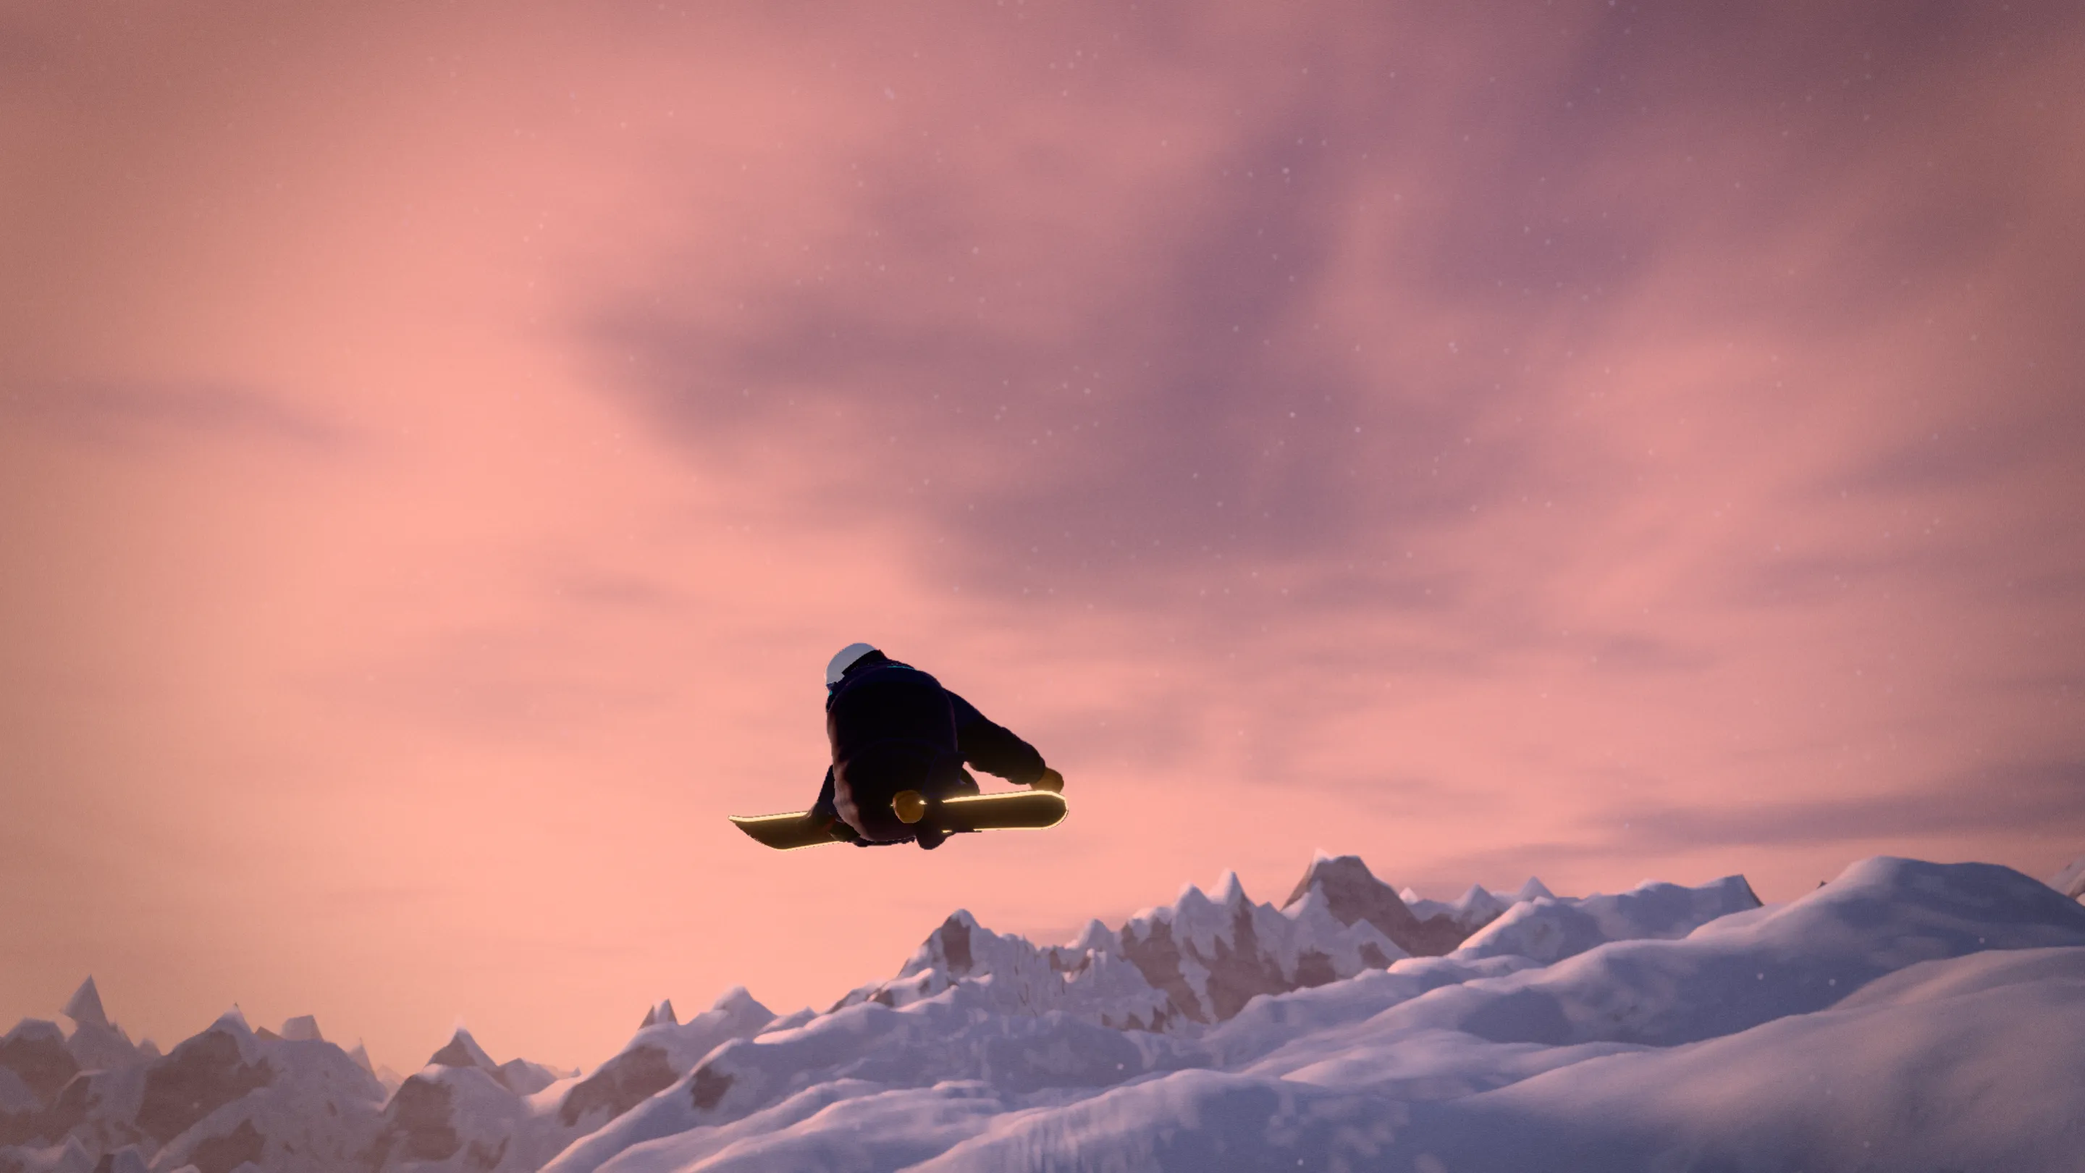
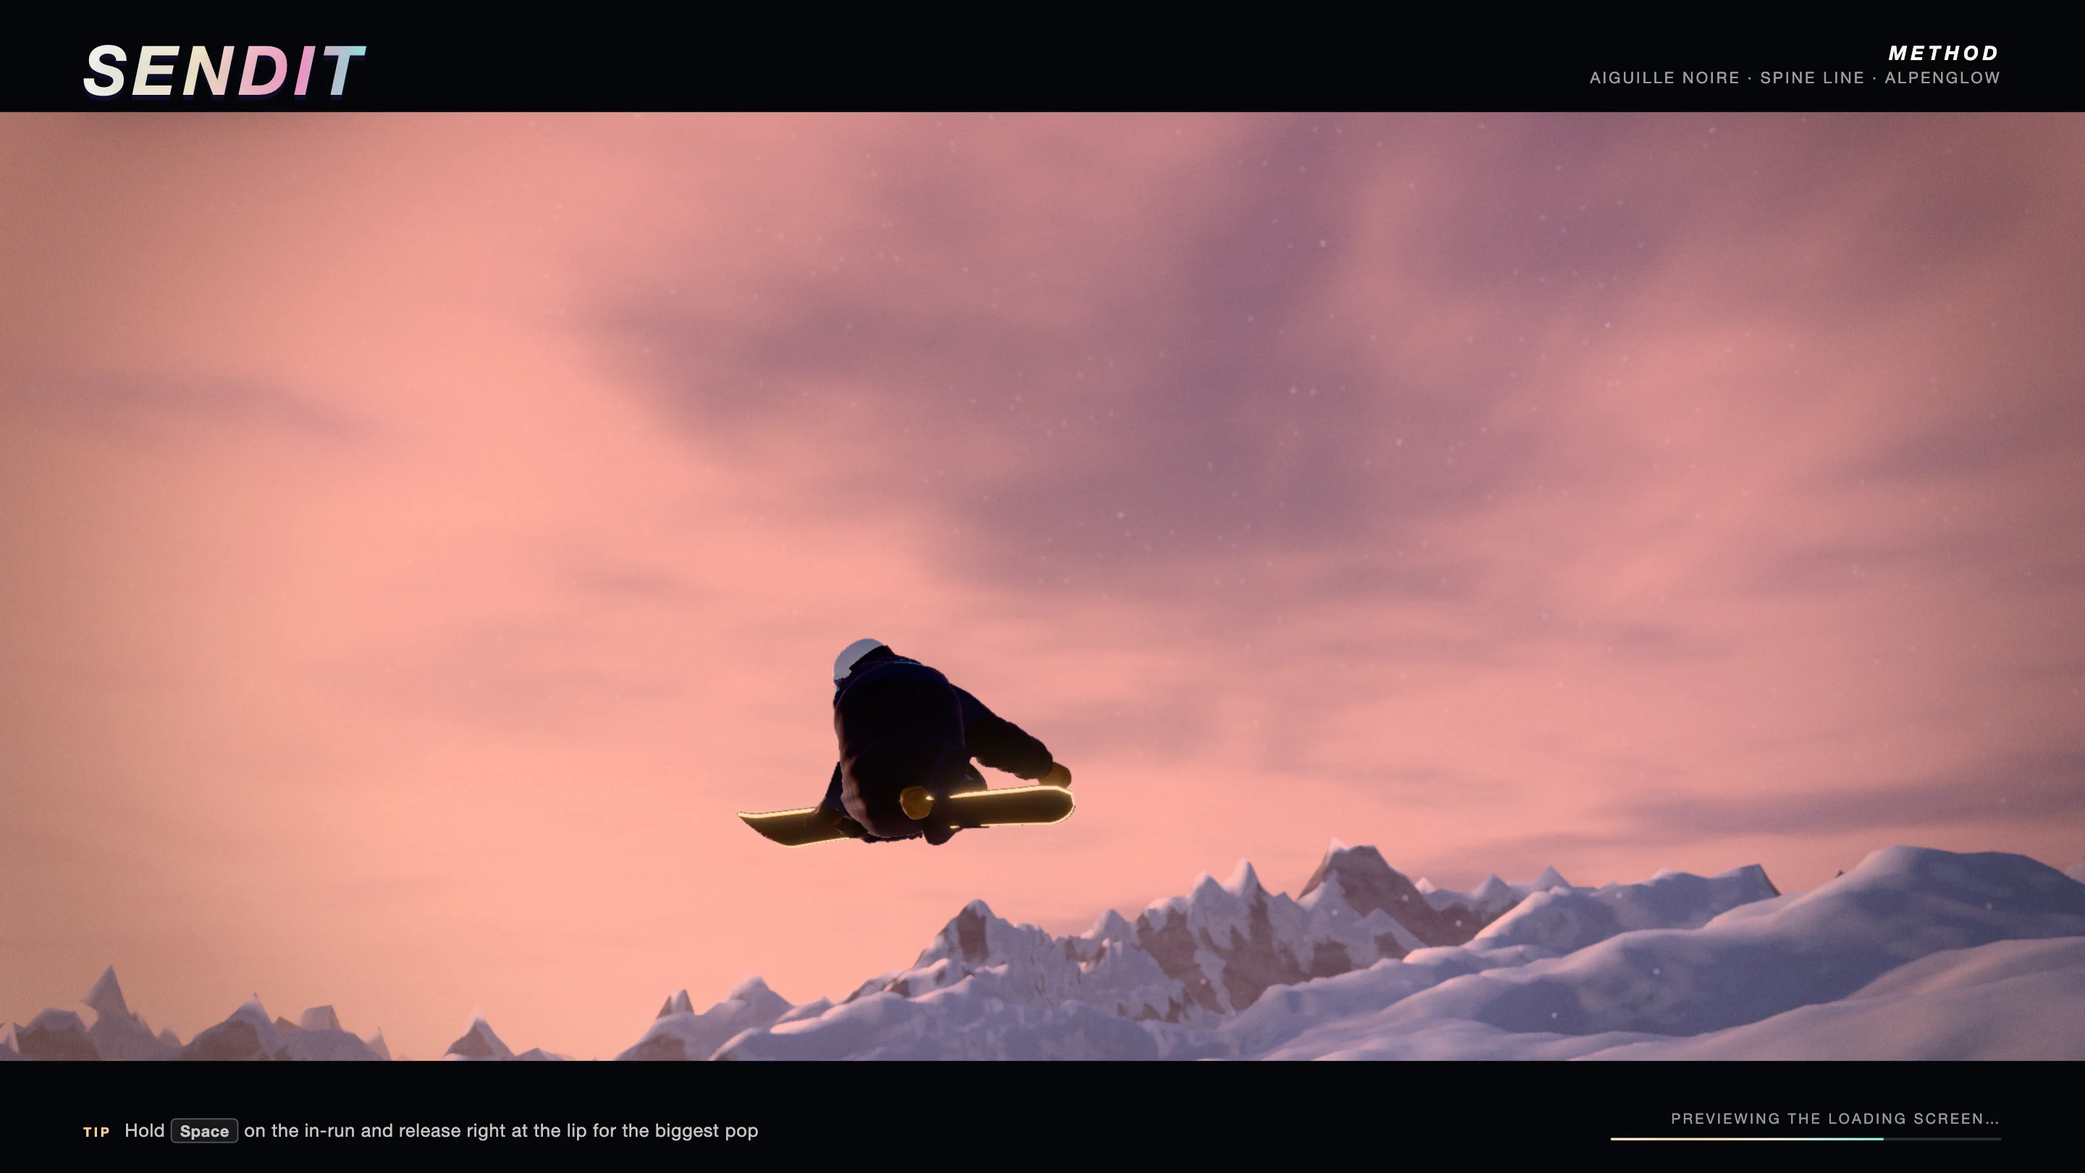
Loading: 12 stills at higher quality (2880x1620 WebP, 170-260 KB), manifest written by loadingstills.mjs, reduced motion stops the drift; docs round 2 (diagnosis, changes, AAA research, preview)

diff --git a/web/index.html b/web/index.html
@@ -13,7 +13,7 @@
     // A lobby → mountain load (localStorage sendit.loadhint, src/loading/hint.js) prefers a still in that
     // mountain's light. ?loadstill=<name> pins one, ?nostill skips it (the painted CSS screen only).
     (function () {
-      var S = /*STILLS*/[{"f":"golden-method.webp","seed":7101,"tod":"golden","mtn":"spires","gear":"snowboard"},{"f":"golden-backflip.webp","seed":7101,"tod":"golden","mtn":"spires","gear":"ski"},{"f":"bluebird-japan.webp","seed":7412,"tod":"bluebird","mtn":"ranges","gear":"ski"},{"f":"bluebird-cork.webp","seed":7533,"tod":"bluebird","mtn":"spires","gear":"snowboard"},{"f":"alpenglow-method.webp","seed":7377,"tod":"alpenglow","mtn":"spires","gear":"snowboard"},{"f":"dawn-japan.webp","seed":7690,"tod":"dawn","mtn":"inversion","gear":"ski"},{"f":"storm-japan.webp","seed":7801,"tod":"storm","mtn":"ranges","gear":"ski"},{"f":"aurora-backflip.webp","seed":7955,"tod":"aurora","mtn":"spires","gear":"ski"}]/*END*/;
+      var S = /*STILLS*/[{"f":"golden-method.webp","seed":7101,"tod":"golden","mtn":"spires","gear":"snowboard"},{"f":"golden-backflip.webp","seed":7101,"tod":"golden","mtn":"spires","gear":"ski"},{"f":"bluebird-japan.webp","seed":7412,"tod":"bluebird","mtn":"ranges","gear":"ski"},{"f":"bluebird-cork.webp","seed":7533,"tod":"bluebird","mtn":"spires","gear":"snowboard"},{"f":"alpenglow-method.webp","seed":7377,"tod":"alpenglow","mtn":"spires","gear":"snowboard"},{"f":"dawn-japan.webp","seed":7690,"tod":"dawn","mtn":"inversion","gear":"ski"},{"f":"storm-japan.webp","seed":7801,"tod":"storm","mtn":"ranges","gear":"ski"},{"f":"aurora-backflip.webp","seed":7955,"tod":"aurora","mtn":"spires","gear":"ski"},{"f":"aurora-method.webp","seed":7955,"tod":"aurora","mtn":"spires","gear":"snowboard"},{"f":"dawn-method.webp","seed":7690,"tod":"dawn","mtn":"inversion","gear":"snowboard"},{"f":"bluebird-method.webp","seed":7412,"tod":"bluebird","mtn":"ranges","gear":"snowboard"},{"f":"alpenglow-backflip.webp","seed":7377,"tod":"alpenglow","mtn":"spires","gear":"ski"}]/*END*/;
       var LOOK = { 'valcrest-gully': 'golden bluebird', 'lake-tahoe': 'bluebird golden', blackspruce: 'bluebird storm golden', ravenspire: 'golden alpenglow storm',
         'voltage-park': 'aurora bluebird', dragonback: 'bluebird golden dawn', 'kitsune-peak': 'alpenglow dawn', fjordline: 'golden dawn' };
       var q = location.search, pool = S, s = null, h = null, last = null;
@@ -125,7 +125,7 @@
       #loading .ld-ui::after { bottom: 0; background: linear-gradient(transparent, rgba(5,6,10,.7)); }
       #loading .ld-brand, #loading .ld-foot { z-index: 1; } #loading .ld-brand { top: 18px; } #loading .ld-foot { bottom: 22px; } }
     @media (max-width: 640px) { #loading .ld-foot { flex-direction: column; align-items: stretch; gap: 12px; } #loading .ld-progress { width: 100%; } #loading .ld-msg { text-align: left; } #loading .ld-cap { display: none; } }
-    @media (prefers-reduced-motion: reduce) { #loading .ld-flakes, #loading .bar::after { animation: none; } }
+    @media (prefers-reduced-motion: reduce) { #loading .ld-flakes, #loading .bar::after, #loading .ld-still { animation: none; } }
   </style>
 </head>
 <body>

diff --git a/web/src/gfx/prewarm.js b/web/src/gfx/prewarm.js
@@ -169,7 +169,7 @@ async function warmShadowVariants(renderer, scene, post, camera) {
   scene.add(group);
   await compileForTarget(renderer, scene, camera, post);   // the stand-ins' main-pass programs, in parallel
   const kids = [...group.children];
-  const PER = 2;   // one dummy + clone pair per frame (the depth programs still link synchronously)
+  const PER = 4;   // two dummy + clone pairs per frame (the depth programs still link synchronously)
   for (let i = 0; i < kids.length; i += PER) {
     for (let k = 0; k < kids.length; k++) kids[k].visible = k >= i && k < i + PER;
     post.composer.render(1 / 60);

diff --git a/docs/loading-screen.md b/docs/loading-screen.md
@@ -7,7 +7,115 @@ resolution in its own worker, and dissolves into the lobby when loading finishes
 
 Code: `web/src/loading/` · markup + inline CSS: `web/index.html` (`#loading`) · hooks: `ui.loading()` /
 `ui.doneLoading()` in `web/src/ui.js` · preview: `web/loading.html` · captures: `web/scripts/loadingshot.mjs`
-· timing: `web/scripts/loadtime.mjs`.
+· timing: `web/scripts/loadtime.mjs` · stills: `web/scripts/loadingstills.mjs` → `assets/loading/`.
+
+## Round 2 (overnight 17→18 Oct 2026): a real picture from the first frame, live on every map load
+
+### What the user actually saw (diagnosed on the MacBook Air M1, Chrome / ANGLE Metal, 1440×900 @2×)
+
+Measured with `scripts/loadtime.mjs`-style runs (scratch script, boot → lobby → pick Ravenspire) on the old
+code (commit `f7dcf86`, served side by side on another port), with 2–3 other sessions loading the machine:
+
+| | old |
+|---|---|
+| first paint | the CSS backdrop (gradient + SVG ridges + CSS dots): the "basic 2D mountain" |
+| first live frame, boot | 5.5–8.5 s after open (2.8–6.5 s on quieter runs); the 2D screen until then |
+| live scene resolution | the scaler collapsed to 0.5–0.64 → **919×574 to 1183×739 px on a 2880×1800 screen** (blurry) |
+| live scene fps during the boot | 9–14 fps, freezes of **5–8.5 s** |
+| lobby → mountain | a full page reload (`location.search`), so the same boot again: 2D screen for 1–6 s, then a random rider on a random made-up place (captions like "Dragonback · Spine 3" while loading Ravenspire), ~1050 px wide |
+
+Why: (1) the live scene needs ~2 s of worker start-up (modules, terrain, shader compile, the rider's glTF)
+and the worker's module requests queued behind the game's hundreds of dev-server requests; (2) the scaler
+counted GPU-thread stalls (the game linking shaders) as "too slow" and halved the resolution; (3) the game's
+own warm-up compiled programs synchronously on Chrome's single GPU thread (which the worker shares), and
+its shadow-variant warm-up drew a bare clone of the terrain material in the main pass — compiling a whole
+new terrain program synchronously (a 2 s+ freeze at the end of *every* load, old code included); (4) the
+1024² sun-mask bake was one 1–3 s GPU pass; (5) the worker reveal waited on a main-thread CSS class, and
+the main thread receives worker messages late (multi-second long tasks).
+
+### What changed
+
+1. **First paint is a picture from the game's own engine.** 12 hero stills (`assets/loading/*.webp`,
+   2880×1620, 170–260 KB each, 2.8 MB in all) are rendered by the loading scene itself: `scripts/loadingstills.mjs`
+   freezes a seeded variant mid-trick (`?loadq=still` = full size, real depth of field, no scaler,
+   `?loadfreeze=<fraction of the air>`) with the new *hero three-quarter* camera, and encodes WebP in the
+   browser. A tiny inline script in `index.html`'s `<head>` picks one (never the same twice in a row; on a
+   lobby → mountain load one in that mountain's light), preloads it with `fetchpriority=high` and shows it
+   the moment it decodes (~50–200 ms after open), with a slow Ken Burns drift (random direction per load)
+   and CSS bokeh snow above it. The old CSS gradient/ridges stay underneath only as the last fallback.
+2. **Seamless still → live.** The worker redraws the same still itself (`loading/still.js`: same WebP, same
+   `cover` crop, same Ken Burns curve synchronised through the epoch clock) as its first frames, so the
+   canvas appearing over the page is invisible, and then dissolves from the still into the live shot in
+   the worker the moment the rider's first trick shot starts — no main-thread involvement. It never shows an
+   empty establishing slope over the still. The live scene starts from the still's variant (same place,
+   light, rider) unless this is a map load.
+3. **Map load = the player's own rider on that mountain.** Before the lobby reloads into another mountain,
+   `main.js` writes `localStorage['sendit.loadhint']` (`loading/hint.js`): the player's outfit (the real
+   catalog colourways via `outfitSlotsFromProfile`), gear type + model, the mountain, trail, region and
+   accent. The next load's hero shot rides that outfit and gear, in that mountain's light (`MAP_LOOKS` in
+   `variants.js`: Kitsune → alpenglow/first light, Voltage Park → northern lights, Fjordline → golden…),
+   the caption names the real mountain and trail, and a big map card ("DROPPING IN / KITSUNE PEAK /
+   ● Okama Bowl · Hokkaido, Japan") sits bottom-left like a game's map intro. A plain refresh is a normal
+   random boot again.
+4. **Smooth through the whole build.** `compileAsync` everywhere with the post stack's HDR target bound
+   (the canvas variant was the wrong program, so the first real frame re-linked everything — a 1.8 s
+   stall in the worker's first live frame, and the same in the game); the game's frame loop holds off
+   while it compiles; prewarm draws the scene's materials in 10 slices with yields; the shadow-variant
+   warm-up uses invisible stand-in materials (same depth-program fields) and two pairs per frame; the sun
+   mask bakes in 8 strips with yields. Result on the map load: worst worker frame 3–4 s → ~0.3–0.5 s
+   (on a machine at load average 30–50; no stall at all on a calmer run).
+5. **Resolution.** Budget 3.2 MP rendered (2277×1423 on the 1440×900 @2× Air), the scaler ignores stall
+   frames (>90 ms), never drops below 0.7, and may climb to native when frames have headroom. It holds a
+   locked 30 fps (slow motion hides it) instead of trading resolution for 60.
+6. **The loading code downloads first.** `index.html` starts `main.js` only once the loading worker has its
+   modules (or after 2.5 s), so the hero shot isn't queued behind the game's requests.
+7. **Looks.** Denser far ring (every boundary column, 300 rows: smooth silhouettes), massif mask (a few
+   dominant peak groups instead of an egg crate of equal cones), the game's own spruce and fir
+   (`gfx/trees.js`, ~1400 trees in clumps on the slopes below the band, stunted higher up; `trees.js` now
+   builds its needle texture on an OffscreenCanvas in a worker), dense valley forest without flecks,
+   softer cloud sea. New camera move *Hero three-quarter* (drone 6–8 m off the rider's 3/4 front, below
+   the apex, backlit, slow push-in) — the first shot of most loads; fewer long-lens / low shots (they
+   framed a dark wall or a speck).
+
+### Numbers (after)
+
+MacBook Air M1 8 GB, headless Chrome (ANGLE Metal), 1440×900 @2×, dev server, other sessions running
+(load average 8–50 during every run, so wall times swing by 2×; compare within a row only).
+
+NUMBERS_TABLE
+
+### AAA loading screens: what they do and what we took
+
+- **Never a blank or "loading" frame.** Riders Republic / Forza Horizon / Fortnite all open on art or
+  the world straight away; the bar is never the main thing. → the engine still at first paint.
+- **In-engine, live, cinematic.** SSX (2012) and Steep fly a drone camera over the mountain you are
+  about to drop on; Forza Horizon's boot shows the car driving in-engine; Riders Republic keeps you in
+  the world. → the live hero shot, drone moves, speed ramp, backlit powder.
+- **Name the place.** Call of Duty and Apex put the map name big with location / time stamps; SSX and
+  Steep name the peak and the drop. → the map card ("Dropping in · KITSUNE PEAK · Okama Bowl ·
+  Hokkaido, Japan") and the shot caption (trick · place · light).
+- **One tip at a time, short, true to the controls.** Zelda, Fortnite, Apex rotate single hints.
+  → kept (CSS-only rotation, runs through long tasks).
+- **Honest, steady progress.** A determinate bar that never goes backwards and never sits still
+  ([Game Developer: "Game design rules: loading screens"](https://www.gamedeveloper.com/design/game-design-rules-loading-screens)).
+  → paced bar with a compositor-side creep; any system can report finer progress through `ui.loading(p, msg)`
+  (e.g. a longer tree build) and the line follows.
+- **Seamless hand-off.** No black dip into the game (Horizon's boot cuts straight to driving).
+  → the dissolve + push-in into the lobby / ride, unchanged.
+- **Don't spoil discovery** (same article) — the stills are of the loading scene's own made-up peaks,
+  not the maps' secret spots.
+
+### How to preview (port 5184 tonight; any port works)
+
+- Boot: `http://localhost:5184/` (random still → live shot → lobby). `?loadhold` keeps the screen up.
+- A given still: `?loadstill=aurora-backflip` (names in `scripts/loadingstills.mjs`); `?nostill` = old
+  CSS backdrop under the live scene; `?loadscene=0` = still only (the fallback).
+- Map load as the player sees it: in the lobby pick a trail on another mountain; or set the hint by hand
+  and open `?map=kitsune-peak&ride`.
+- The screen alone, no game: `http://localhost:5184/loading.html?loadstill=bluebird-japan&loadhold`
+  (add `&loadcam=hero&loadtrick=cork900` etc.).
+- Re-render the stills after a look change: `node scripts/loadingstills.mjs http://localhost:5184/loading.html ../assets/loading`
+  (a full run also writes the still manifest into `index.html`'s picker, `/*STILLS*/…/*END*/`).
 
 ## Research notes
 
@@ -61,15 +169,20 @@ main-thread loading scene would show a slideshow. Hence the architecture below.
 ## Architecture
 
 ```
-index.html ── paints #loading at once (inline CSS): sky gradient, SVG ridges, CSS snowfall, overlay
+index.html ── <head> script: picks + preloads an engine still (assets/loading/*.webp), Ken Burns
+   │           paints #loading at once (inline CSS): still over sky gradient / SVG ridges, CSS snow, overlay
    │
-   ├─ <script src=/src/loading/index.js>   (runs before main.js is even fetched)
+   ├─ inline module: import loading/index.js, then main.js once the worker has its modules (≤ 2.5 s)
    │     LoadingScreen: transfers #loadcanvas to an OffscreenCanvas → Worker(loading/worker.js)
    │     progress(p, msg)  ← ui.loading()      (paced against measured stage times)
    │     finish()          ← ui.doneLoading()  (dissolve into the lobby, then terminate the worker)
    │
    └─ worker.js → scene.js  LoadingScene on its own requestAnimationFrame (independent of the page)
-         variants.js   random variant: time of day, mountains, gear, outfit, tricks, cameras
+         still.js      redraws the page's still (same crop + drift), dissolves it into the first shot
+         hint.js       (page side) the lobby's "next load" facts: player outfit / gear, mountain, trail
+         variants.js   random variant: time of day, mountains, gear, outfit, tricks, cameras;
+                       MAP_LOOKS = each game map's light for map loads
+         gfx/trees.js  the game's spruce / fir on the slopes below the band
          terrain.js    one height function → near grid (dense on the line) + far ring to 42 km,
                        watertight seam, baked sun / sky visibility; snow + rock = the game's
                        SNOW_BAND_GLSL + rockShade through world.js toonMaterial
@@ -162,8 +275,9 @@ first frame, it is a quick 0.45 s fade instead.
 
 ### Fallbacks
 No `OffscreenCanvas`, no WebGL2 in an OffscreenCanvas, a worker error or a frame error → the painted
-static screen stays (it is underneath all along), with the same overlay and progress. `?loadscene=0`
-forces it.
+screen stays (it is underneath all along): the engine still with its Ken Burns drift and CSS snow, with
+the same overlay and progress. `?loadscene=0` forces it. If the still can't load either, the old CSS
+gradient + ridges show. Reduced motion: still only, no drift or snow.
 
 ## Numbers
 
@@ -222,14 +336,20 @@ it (worst frame 0.3–0.8 s warm, 2–3 s cold). Moving the boot's compile to `r
 main.js), so it is a recommendation in the hand-over note, not part of this change.
 
 ## Assets and credits
-No new assets. Everything is procedural or reused from the game: the rider glTF and outfits,
+`assets/loading/*.webp` (round 2) are renders of this loading scene (no third-party content; re-render
+with `scripts/loadingstills.mjs`). Everything else is procedural or reused from the game: the rider glTF and outfits,
 equipment models, the CC0 Poly Haven `rock_face_03` packed texture (already credited in CREDITS.md),
 the game's noise texture generator and post grade.
 
 ## Tests and tools
 - `node scripts/loading-unit.mjs`: choreography + camera checks (24 variants × both gears × every trick ×
   every move: lands past the band, upright, forward or switch as expected, flips go inverted, feet never
-  under the snow, speed ramp, cameras clear the snow). 8232 checks.
+  under the snow, speed ramp, cameras clear the snow). 9096 checks (with the hero move).
+- `node scripts/loadingstills.mjs <loading.html> <outDir> [WxH@dpr]`: the painted stills (WebP); `SPECS=<json|file>`
+  renders other picks (contact sheets while choosing shots).
+- `node scripts/ld-terrain-bench.mjs`: the loading terrain build in Node (~0.5 s after the denser far ring, was ~0.27 s).
+- `__loading.stats()` in the page: `stillMs` (still decoded), `firstShotMs` (live rider on screen, worker clock),
+  `scene.stalls` (worker frames > 250 ms, page clock) and `marks` (game boot phases, e.g. prewarm) to line them up.
 - `GPU=1 node scripts/lobbytest.mjs <url>`: the lobby flow plus the loading hand-off (overlay gone, worker
   canvas removed, no curtain left, progress reached 100 %, a live frame was shown).
 - `node scripts/loadingshot.mjs <url | …/loading.html> <outDir> "<q1>;<q2>" "<t1,t2>" WxH`: frame captures.
@@ -237,10 +357,14 @@ the game's noise texture generator and post grade.
 - `web/loading.html?loadseed=…&finish=12`: the screen alone (no game boot), optionally with the hand-off.
 
 ## Known issues / ideas
-- The scene still dips while the game links shaders synchronously (see Numbers); fixable on the game side.
-- On a cold GPU shader cache the live scene appears late (4–7 s); the static screen covers it.
-- The first live frame waits for the worker's module graph and shader compiles (~1–2 s with a warm GPU
-  shader cache, ~4–6 s cold on this laptop under load); the painted screen covers it.
+- Round 2 moved the game's boot compile to `compileAsync`, sliced prewarm and the sun-mask bake; the
+  remaining worker hitches are a few 0.3–0.5 s frames (rider glTF / texture uploads in the game, depth
+  programs that `compileAsync` can't reach) — only measured on a heavily loaded machine.
+- The live rider appears ~2 s after open (worker start-up); the still covers it, so the first thing on
+  screen is still the game's own rendering.
+- Map loads are still full page reloads (the still covers the gap; an in-place map switch would let the
+  hero shot run uninterrupted from the lobby, but means tearing down every system in `main.js`).
+- The stills are fixed renders: after a big look change (terrain, snow, rider), re-render them.
 - The worker duplicates three.js and the rig modules (a second copy in memory while loading; the
   bundle has a separate worker chunk).
-- The rider has no trees or other people around; the valleys get a forest tint, not trees.
+- No other people around the rider; far valleys get a forest tint, the near slopes real trees.
